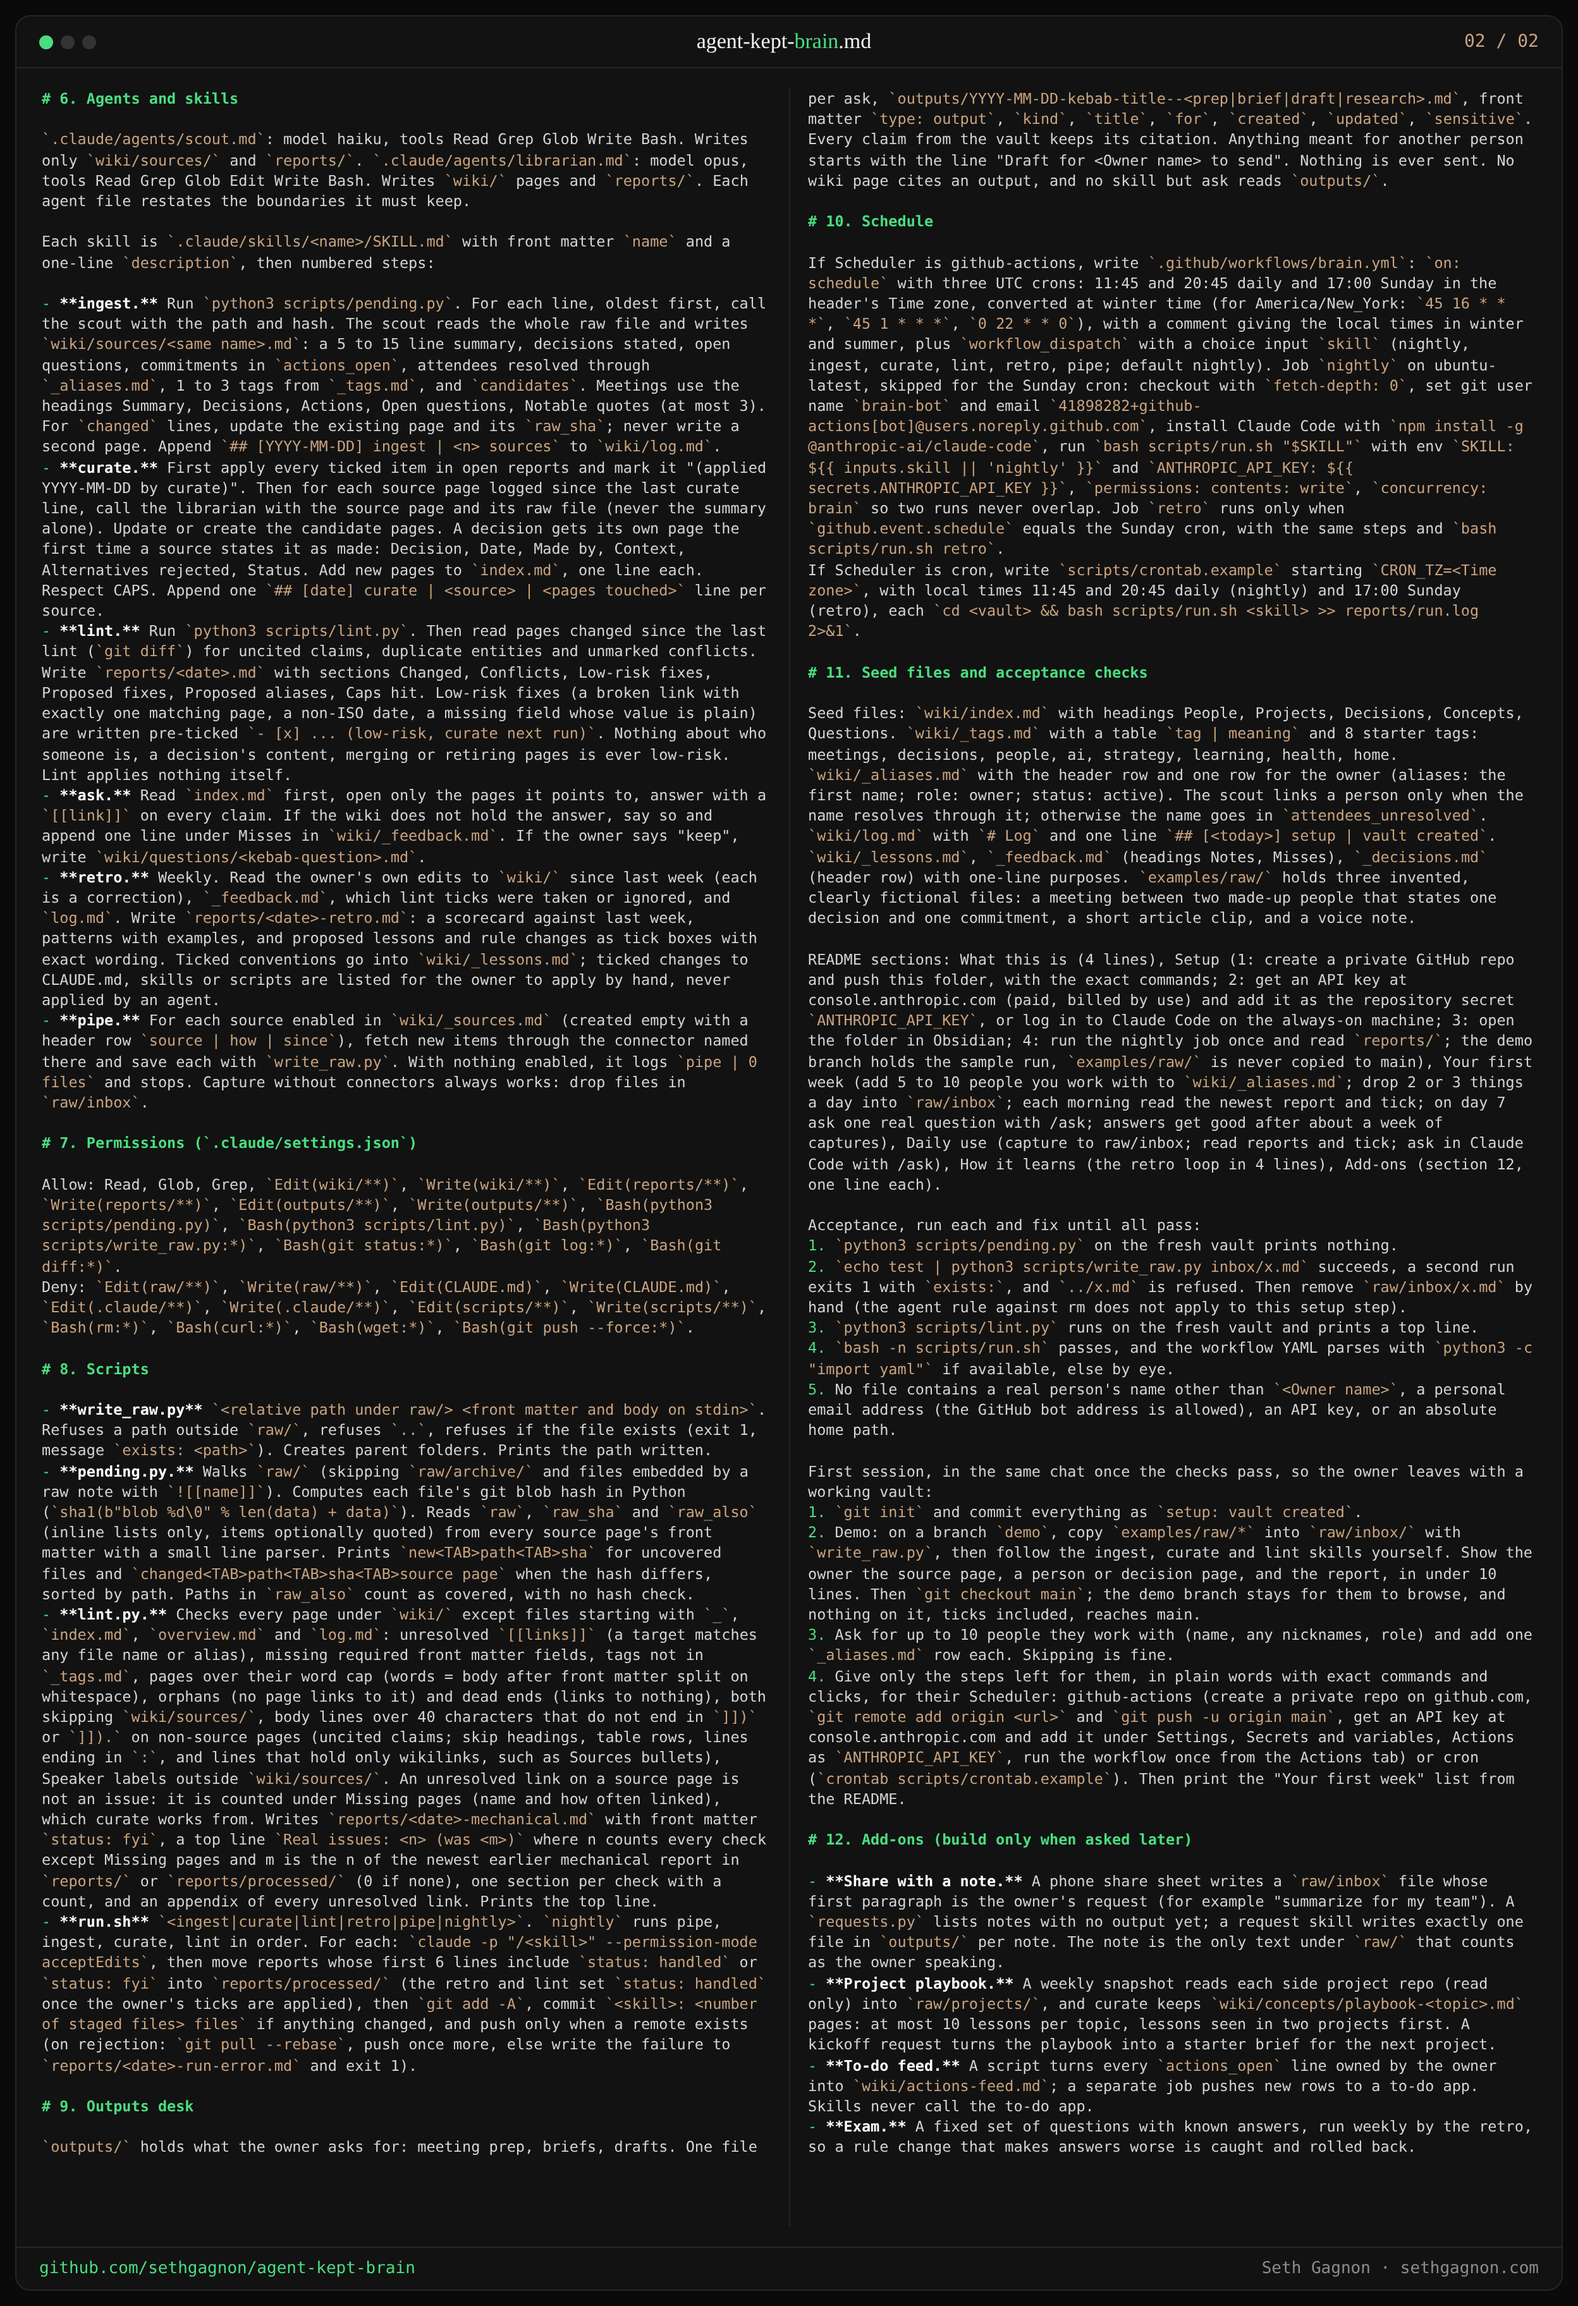
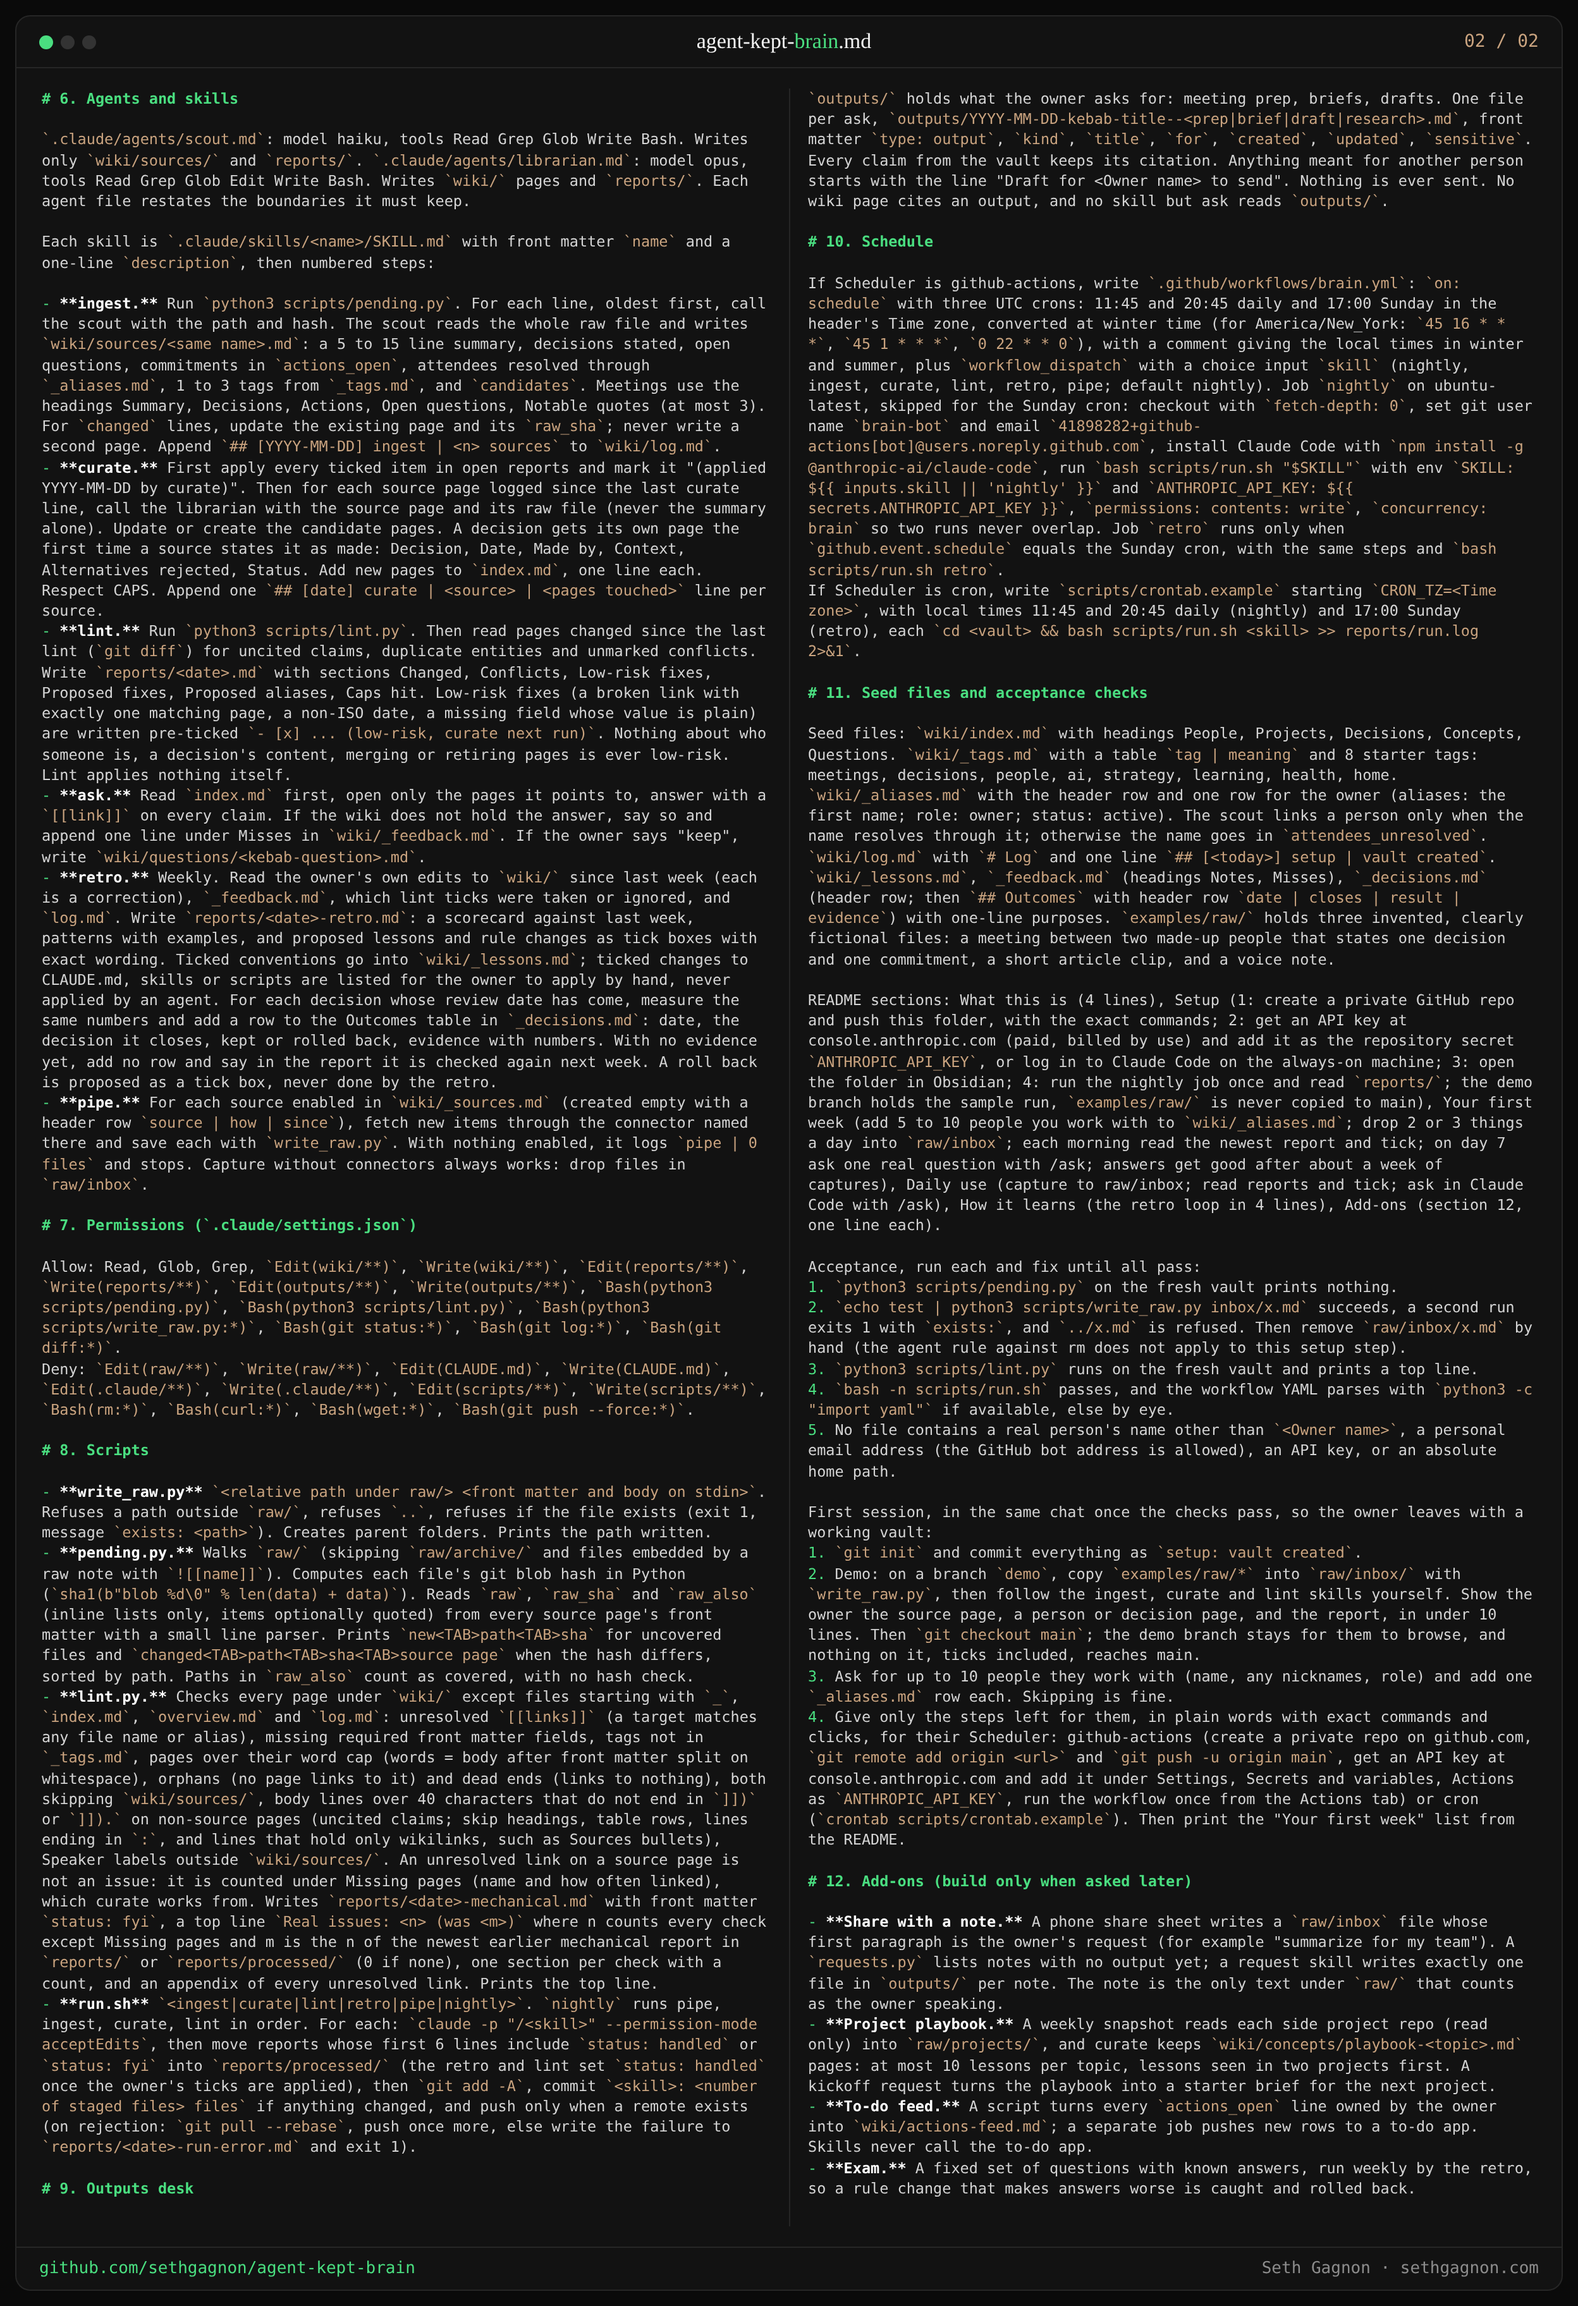
Record a baseline and review date for each change, and its outcome
Decision rows carry the numbers the change should move and a review date;
the weekly retro measures them again and adds kept or rolled back, with
evidence, to an Outcomes table. Images re-rendered.

Claude-Session: https://claude.ai/code/session_01DDY5aJB6157FCRScXXzNkL

Changed region(s): [[0.5, 0.0312, 0.9688, 0.9688], [0.0312, 0.4375, 0.4688, 0.9375]]

diff --git a/agent-kept-brain.md b/agent-kept-brain.md
@@ -67,7 +67,7 @@ Write CLAUDE.md with these sections, in this order. Each rule is one bullet. Kee
 - **FRONT MATTER.** The two blocks in section 5, literally.
 - **INGEST, CURATE, ASK, LINT, RETRO.** One section each, with the steps from section 6.
 - **REPORTS.** Reports are read on a phone. Everything needing the owner is a `- [ ]` tick box or a question with one tick box per likely answer plus `- [ ] Other:`. Items needing the owner go first under "Your call", at most 5 a day across all reports. Every proposal names the problem with a number from the evidence and says how next week will show it worked. A proposal that adds a rule names one thing it removes.
-- **DECISIONS LOG.** When the owner decides how the brain works, add one row to `wiki/_decisions.md`: date, decision, where the rule lives, how it was given. Rows are never edited; a reversal is a new row.
+- **DECISIONS LOG.** When the owner decides how the brain works, add one row to `wiki/_decisions.md`: date, decision, where the rule lives, how it was given, the baseline (the 2 or 3 numbers it should move, taken now from reports or `log.md`, or "unknown") and a review date (default 4 weeks). Rows are never edited; a reversal is a new row.
 
 # 5. Front matter
 
@@ -124,7 +124,7 @@ Each skill is `.claude/skills/<name>/SKILL.md` with front matter `name` and a on
 - **curate.** First apply every ticked item in open reports and mark it "(applied YYYY-MM-DD by curate)". Then for each source page logged since the last curate line, call the librarian with the source page and its raw file (never the summary alone). Update or create the candidate pages. A decision gets its own page the first time a source states it as made: Decision, Date, Made by, Context, Alternatives rejected, Status. Add new pages to `index.md`, one line each. Respect CAPS. Append one `## [date] curate | <source> | <pages touched>` line per source.
 - **lint.** Run `python3 scripts/lint.py`. Then read pages changed since the last lint (`git diff`) for uncited claims, duplicate entities and unmarked conflicts. Write `reports/<date>.md` with sections Changed, Conflicts, Low-risk fixes, Proposed fixes, Proposed aliases, Caps hit. Low-risk fixes (a broken link with exactly one matching page, a non-ISO date, a missing field whose value is plain) are written pre-ticked `- [x] ... (low-risk, curate next run)`. Nothing about who someone is, a decision's content, merging or retiring pages is ever low-risk. Lint applies nothing itself.
 - **ask.** Read `index.md` first, open only the pages it points to, answer with a `[[link]]` on every claim. If the wiki does not hold the answer, say so and append one line under Misses in `wiki/_feedback.md`. If the owner says "keep", write `wiki/questions/<kebab-question>.md`.
-- **retro.** Weekly. Read the owner's own edits to `wiki/` since last week (each is a correction), `_feedback.md`, which lint ticks were taken or ignored, and `log.md`. Write `reports/<date>-retro.md`: a scorecard against last week, patterns with examples, and proposed lessons and rule changes as tick boxes with exact wording. Ticked conventions go into `wiki/_lessons.md`; ticked changes to CLAUDE.md, skills or scripts are listed for the owner to apply by hand, never applied by an agent.
+- **retro.** Weekly. Read the owner's own edits to `wiki/` since last week (each is a correction), `_feedback.md`, which lint ticks were taken or ignored, and `log.md`. Write `reports/<date>-retro.md`: a scorecard against last week, patterns with examples, and proposed lessons and rule changes as tick boxes with exact wording. Ticked conventions go into `wiki/_lessons.md`; ticked changes to CLAUDE.md, skills or scripts are listed for the owner to apply by hand, never applied by an agent. For each decision whose review date has come, measure the same numbers and add a row to the Outcomes table in `_decisions.md`: date, the decision it closes, kept or rolled back, evidence with numbers. With no evidence yet, add no row and say in the report it is checked again next week. A roll back is proposed as a tick box, never done by the retro.
 - **pipe.** For each source enabled in `wiki/_sources.md` (created empty with a header row `source | how | since`), fetch new items through the connector named there and save each with `write_raw.py`. With nothing enabled, it logs `pipe | 0 files` and stops. Capture without connectors always works: drop files in `raw/inbox`.
 
 # 7. Permissions (`.claude/settings.json`)
@@ -150,7 +150,7 @@ If Scheduler is cron, write `scripts/crontab.example` starting `CRON_TZ=<Time zo
 
 # 11. Seed files and acceptance checks
 
-Seed files: `wiki/index.md` with headings People, Projects, Decisions, Concepts, Questions. `wiki/_tags.md` with a table `tag | meaning` and 8 starter tags: meetings, decisions, people, ai, strategy, learning, health, home. `wiki/_aliases.md` with the header row and one row for the owner (aliases: the first name; role: owner; status: active). The scout links a person only when the name resolves through it; otherwise the name goes in `attendees_unresolved`. `wiki/log.md` with `# Log` and one line `## [<today>] setup | vault created`. `wiki/_lessons.md`, `_feedback.md` (headings Notes, Misses), `_decisions.md` (header row) with one-line purposes. `examples/raw/` holds three invented, clearly fictional files: a meeting between two made-up people that states one decision and one commitment, a short article clip, and a voice note.
+Seed files: `wiki/index.md` with headings People, Projects, Decisions, Concepts, Questions. `wiki/_tags.md` with a table `tag | meaning` and 8 starter tags: meetings, decisions, people, ai, strategy, learning, health, home. `wiki/_aliases.md` with the header row and one row for the owner (aliases: the first name; role: owner; status: active). The scout links a person only when the name resolves through it; otherwise the name goes in `attendees_unresolved`. `wiki/log.md` with `# Log` and one line `## [<today>] setup | vault created`. `wiki/_lessons.md`, `_feedback.md` (headings Notes, Misses), `_decisions.md` (header row; then `## Outcomes` with header row `date | closes | result | evidence`) with one-line purposes. `examples/raw/` holds three invented, clearly fictional files: a meeting between two made-up people that states one decision and one commitment, a short article clip, and a voice note.
 
 README sections: What this is (4 lines), Setup (1: create a private GitHub repo and push this folder, with the exact commands; 2: get an API key at console.anthropic.com (paid, billed by use) and add it as the repository secret `ANTHROPIC_API_KEY`, or log in to Claude Code on the always-on machine; 3: open the folder in Obsidian; 4: run the nightly job once and read `reports/`; the demo branch holds the sample run, `examples/raw/` is never copied to main), Your first week (add 5 to 10 people you work with to `wiki/_aliases.md`; drop 2 or 3 things a day into `raw/inbox`; each morning read the newest report and tick; on day 7 ask one real question with /ask; answers get good after about a week of captures), Daily use (capture to raw/inbox; read reports and tick; ask in Claude Code with /ask), How it learns (the retro loop in 4 lines), Add-ons (section 12, one line each).
 

diff --git a/README.md b/README.md
@@ -18,7 +18,7 @@ The same spec as two images, for sharing or attaching: [page 1](images/page-01.p
 - **Files are the truth.** Plain Markdown in Git. Open it in Obsidian or any editor. Git history is the undo button.
 - **Every claim is cited.** A line on a wiki page with no source does not go on the page.
 - **Raw stays raw.** Agents cannot edit what you captured, enforced by both the rules and the tool permissions.
-- **It learns, you decide.** Your own edits are treated as corrections. The weekly retro turns them into proposals you tick on your phone.
+- **It learns, you decide.** Your own edits are treated as corrections. The weekly retro turns them into proposals you tick on your phone. Each change you approve records a baseline and a review date, and the retro later writes down whether it was kept or rolled back, with the numbers.
 - **Caps everywhere.** Each run has limits on pages touched, so one bad night cannot rewrite the vault.
 
 Add-ons (share-with-a-note requests, a playbook that carries lessons between side projects, a to-do feed, a weekly exam) are described at the end of the spec, to build when you want them.
